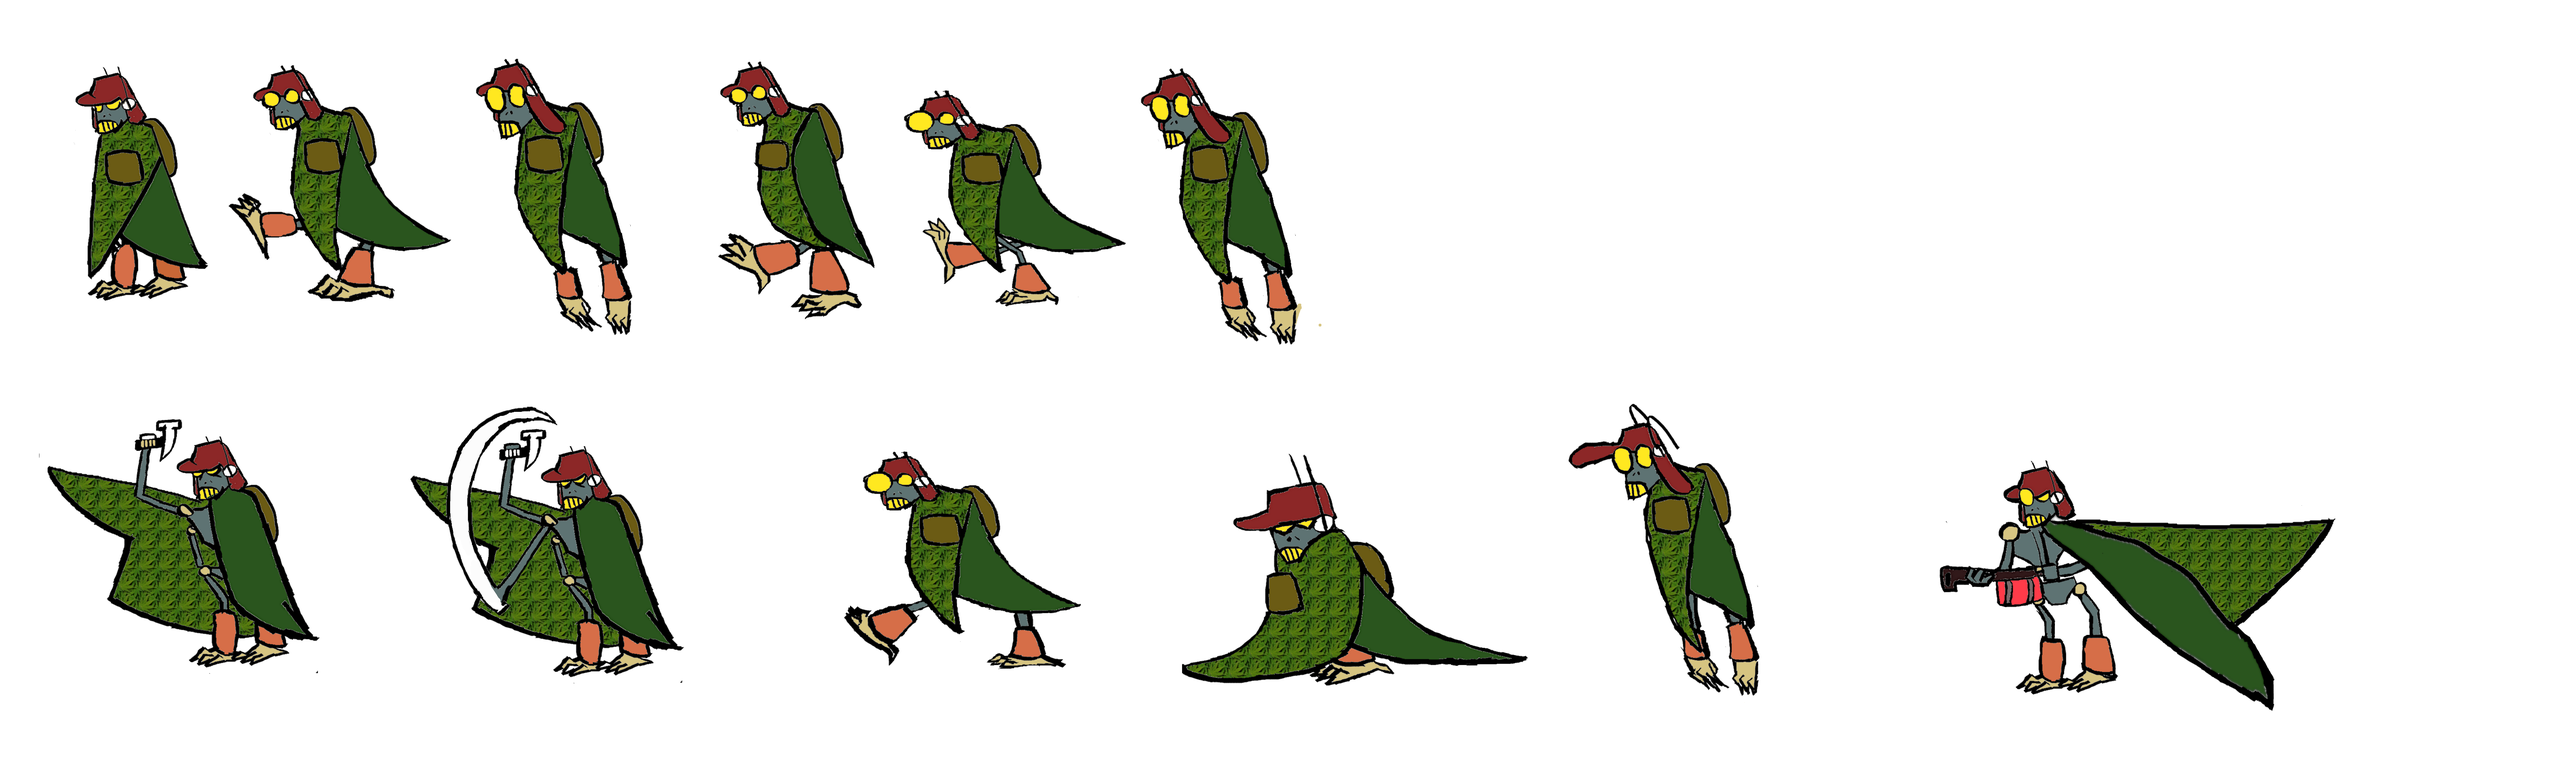
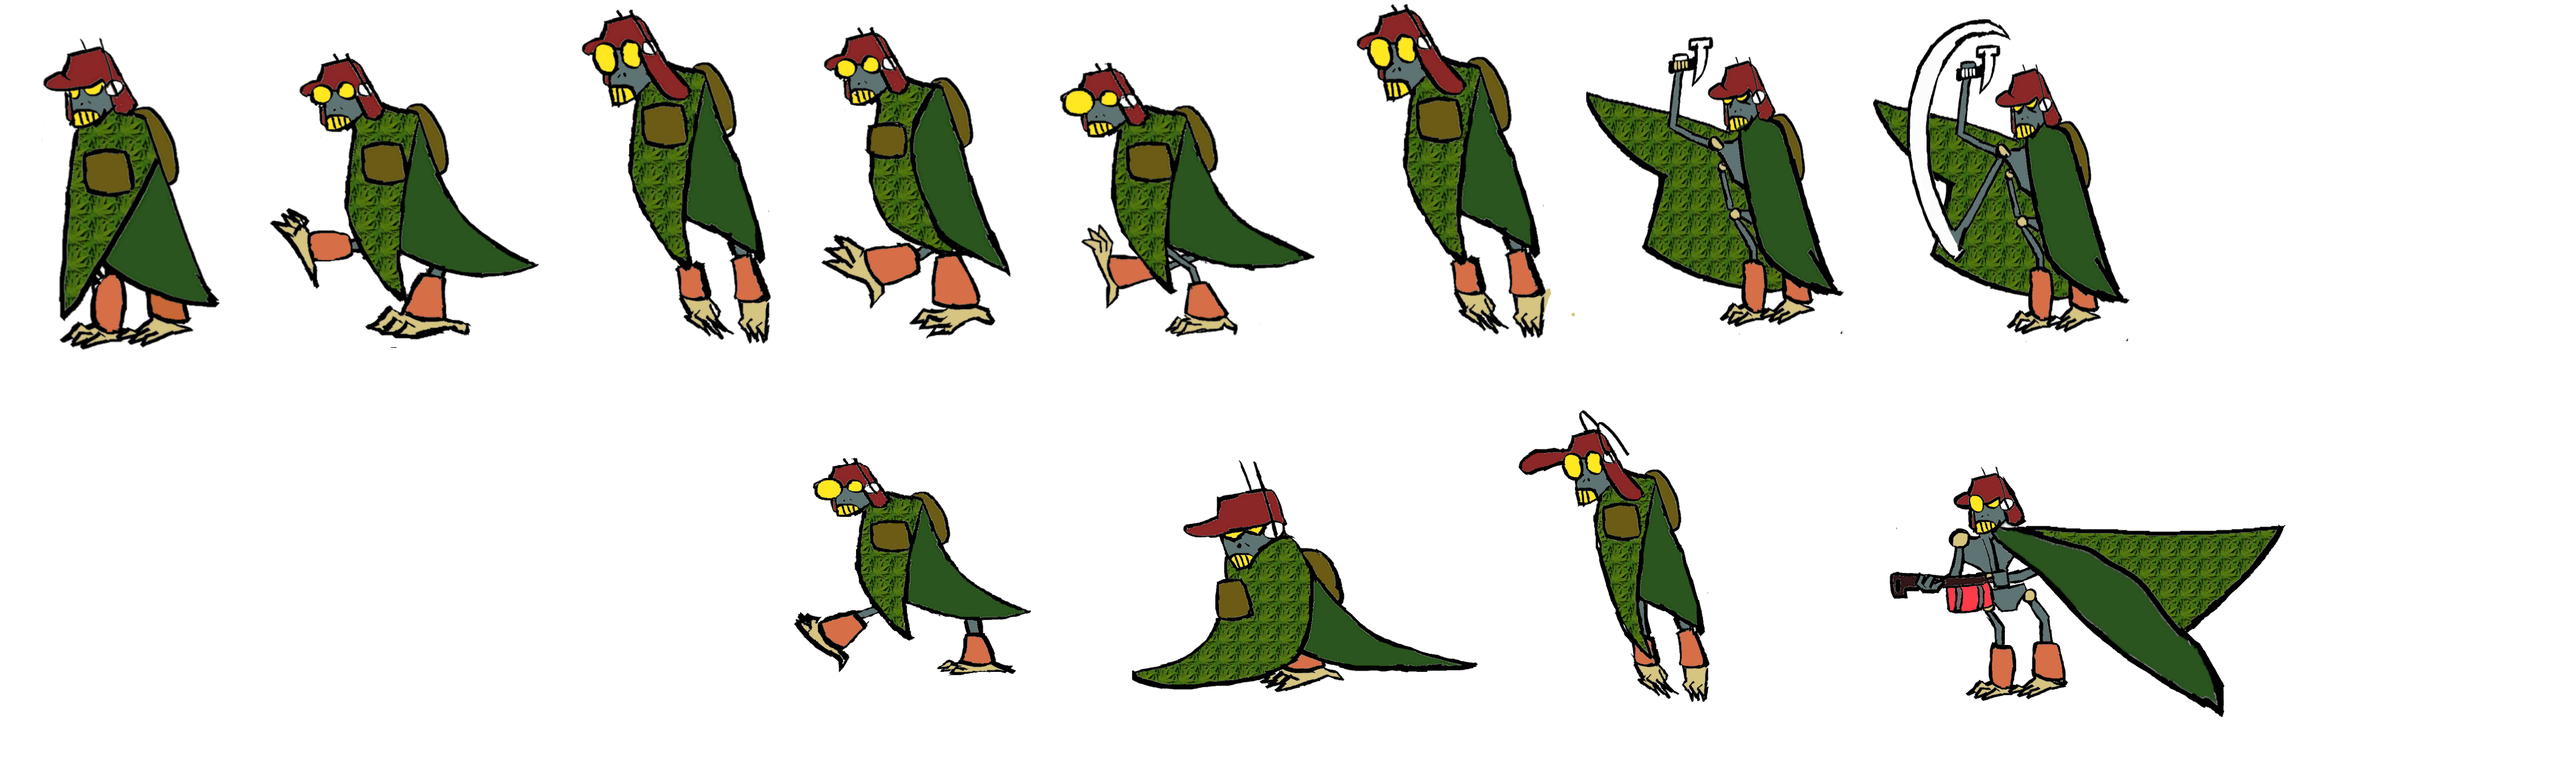
Add working hammer animation

diff --git a/src/scenes/World.js b/src/scenes/World.js
@@ -13,7 +13,10 @@ class World extends Phaser.Scene{
 
     preload(){
         this.load.image('boiler', 'src/assets/boiler.png')
-        this.load.spritesheet('robot', 'src/assets/ggj_chamalet_2020.png', {frameWidth:560, frameHeight:760})
+        this.load.spritesheet('robot', 'src/assets/ggj_chamalet_2020.png', {
+            frameWidth:657, 
+            frameHeight:830
+        })
         this.load.image('platform', 'src/assets/floor.png');
         this.load.image('hud', 'src/assets/frame_fin.png');
         this.load.image('box', 'src/assets/box.png');
@@ -28,7 +31,7 @@ class World extends Phaser.Scene{
         this.platform = this.physics.add.staticGroup()
         this.platform.create(400, 600, 'platform').setScale(0.5).refreshBody()
         
-        this.robot = this.physics.add.sprite(400, 100, 'robot')
+        this.robot = this.physics.add.sprite(400, 400, 'robot')
         this.robot.setScale(0.15);
         this.robot.setBounce(0.5, 0.5);
         this.robot.setCollideWorldBounds(true);
@@ -36,28 +39,28 @@ class World extends Phaser.Scene{
         this.boxes = this.physics.add.group({
             key: 'box',
             repeat: 5,
-            setXY: {x:12, y:0, stepX:70}
+            setXY: {x:12, y:300, stepX:70}
         })
         
         this.boxes.children.iterate(function (child) {
             
-            child.setBounceY(Phaser.Math.FloatBetween(0.4, 0.8));
+            child.setBounceY(Phaser.Math.FloatBetween(0.3, 0.3));
             child.setScale(0.2)
             
         });
         
         this.anims.create({
             key: 'left',
-            frames: this.anims.generateFrameNumbers('robot', { start: 0, end: 5 }),
+            frames: this.anims.generateFrameNumbers('robot', { start: 1, end: 5 }),
             frameRate: 7,
             repeat: -1
         });
         
-        // this.anims.create({
-        //     key: 'turn',
-        //     frames: [ { key: 'robot', frame: 4 } ],
-        //     frameRate: 20
-        // });
+        this.anims.create({
+            key: 'turn',
+            frames: [ { key: 'robot', frame: 0 } ],
+            frameRate: 20
+        });
         
         this.anims.create({
             key: 'right',
@@ -65,6 +68,13 @@ class World extends Phaser.Scene{
             frameRate: 7,
             repeat: -1
         });
+
+        this.anims.create({
+            key: 'hammer',
+            frames: this.anims.generateFrameNumbers('robot', { start:6, end:7 }),
+            frameRate:7,
+            repeat: -1
+        })
         
         this.keys = {
             left : this.input.keyboard.addKey(Phaser.Input.Keyboard.KeyCodes.A),
@@ -79,7 +89,8 @@ class World extends Phaser.Scene{
         this.physics.add.collider(this.robot, this.hud)
         
         const touchBox = (robot, box) => {
-            box.disableBody(true, true)
+            // box.disableBody(true, true)
+
         }
         
         this.physics.add.overlap(this.robot, this.boxes, touchBox, null, this)
@@ -99,14 +110,19 @@ class World extends Phaser.Scene{
 
             this.robot.anims.play('right', true);
         }
+        else if(this.keys.down.isDown && (this.robot.body.touching.down || this.robot.body.onFloor())){
+            this.robot.setVelocity(0)
+            this.robot.anims.play('hammer', true);
+        }
         else{
             this.robot.setVelocityX(0);
 
-            // this.robot.anims.play('turn');
+            this.robot.anims.play('turn');
         }
 
         if (this.keys.jump.isDown && (this.robot.body.touching.down || this.robot.body.onFloor())){
             this.robot.setVelocityY(-400);
         }
+
     }
 }
